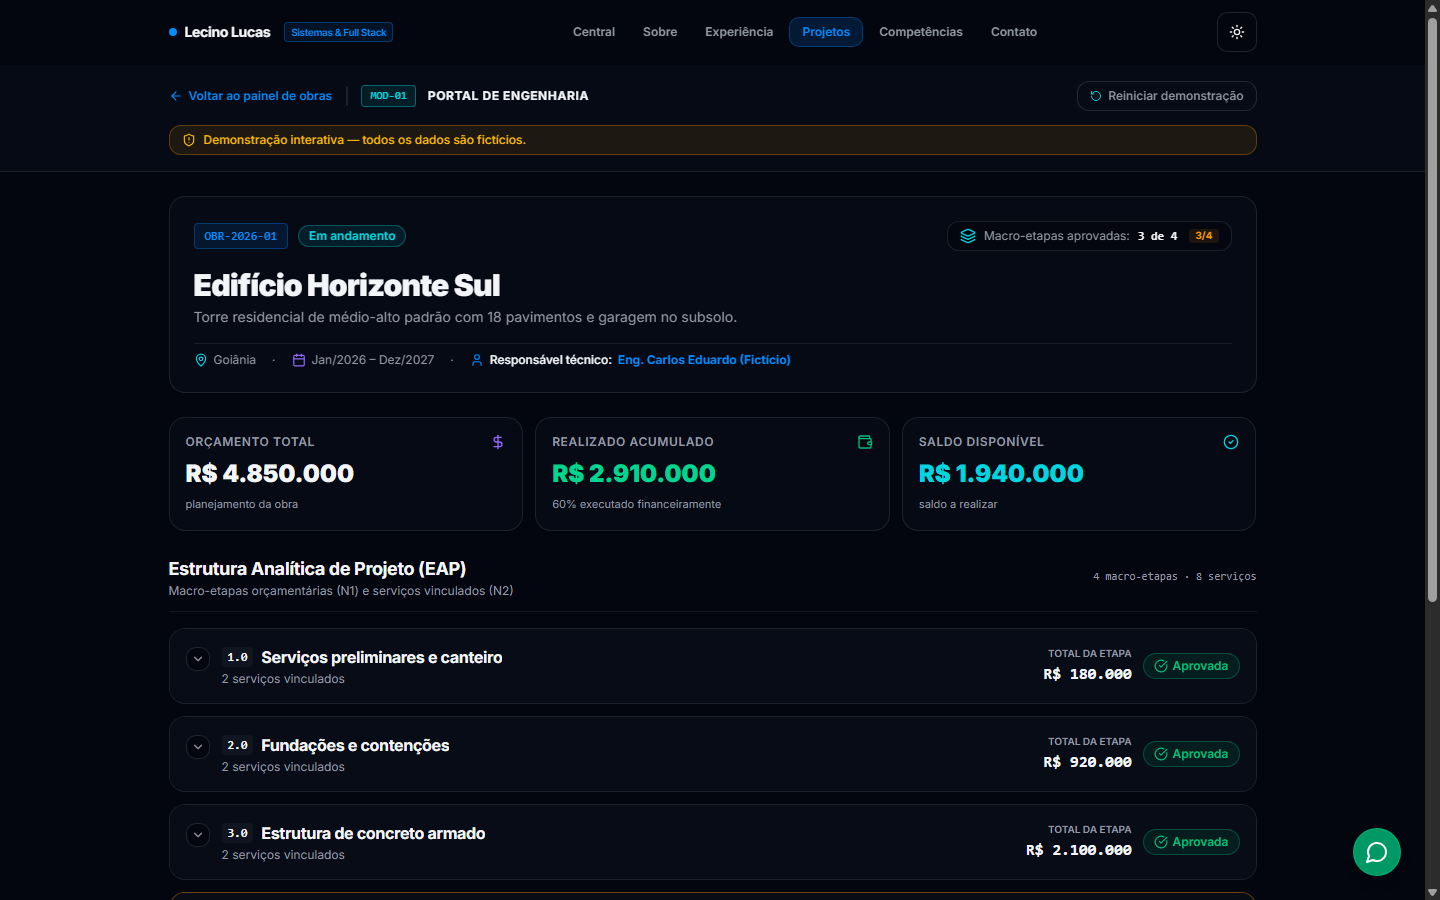
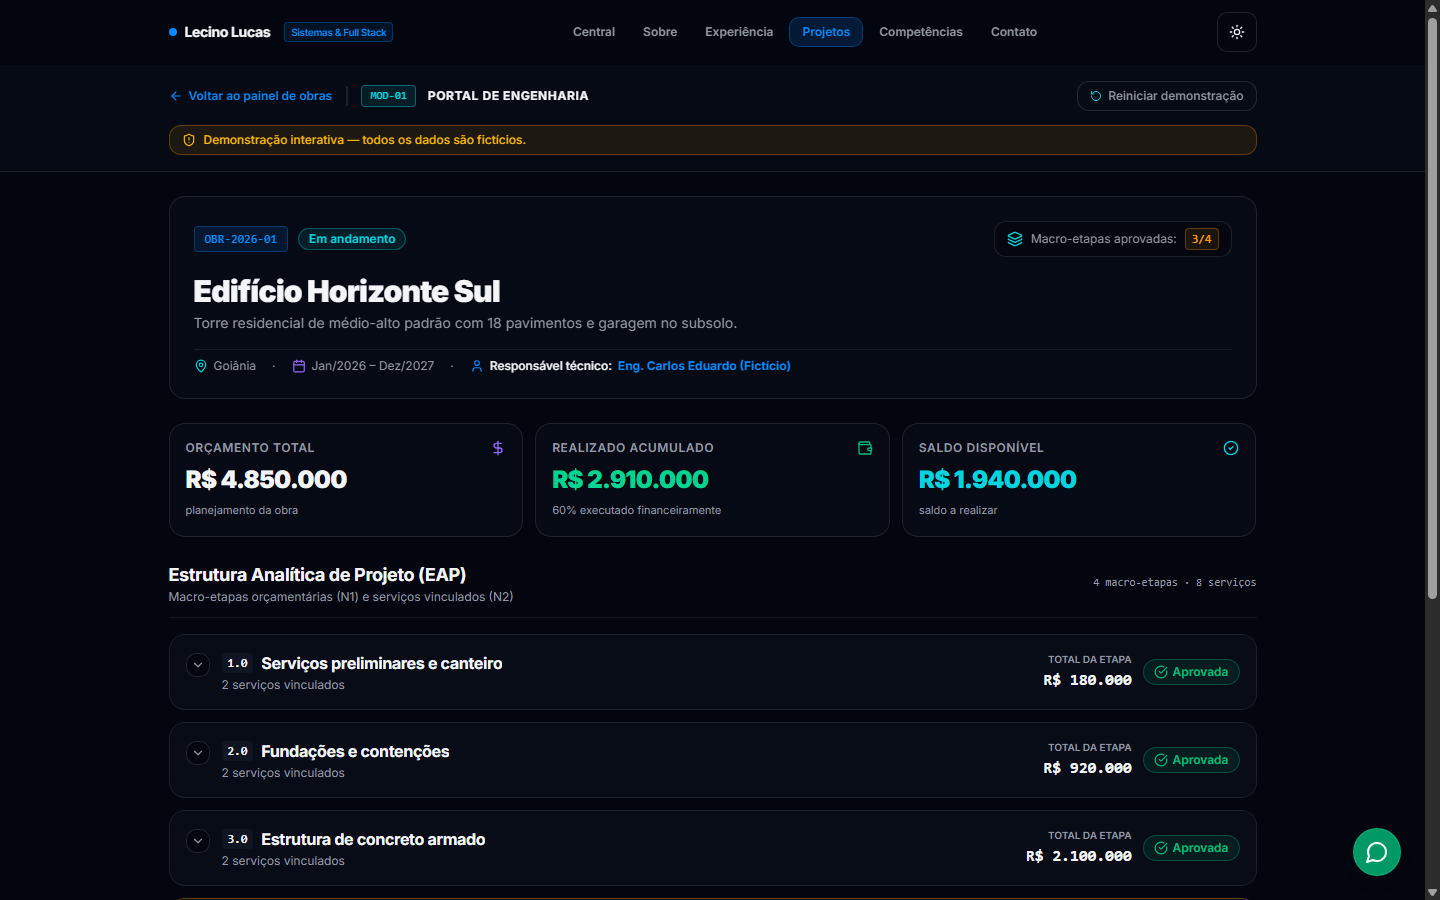
fix(frontend): compactar kpis no mobile e unificar indicador de aprovacoes da demo

diff --git a/frontend/src/pages/portal-engenharia-obra-page.tsx b/frontend/src/pages/portal-engenharia-obra-page.tsx
@@ -111,7 +111,7 @@ export function PortalEngenhariaObraPage() {
       </div>
 
       {/* 2. Conteúdo Principal da Tela 2 (Detalhamento da Obra) */}
-      <Container className="pt-6 space-y-6">
+      <Container className="pt-4 sm:pt-6 space-y-4 sm:space-y-6">
         {/* Banner de Feedback de Sucesso */}
         {feedbackSucesso ? (
           <div className="flex items-center justify-between gap-3 rounded-xl border border-emerald-500/30 bg-emerald-500/10 p-4 text-xs font-semibold text-emerald-500 dark:text-emerald-400 animate-in fade-in-50">
@@ -130,7 +130,7 @@ export function PortalEngenhariaObraPage() {
         ) : null}
 
         {/* Cabeçalho da Obra */}
-        <div className="rounded-xl border border-border/80 bg-card/70 p-5 sm:p-6 shadow-xs backdrop-blur-xs space-y-4">
+        <div className="rounded-xl border border-border/80 bg-card/70 p-4 sm:p-6 shadow-xs backdrop-blur-xs space-y-3 sm:space-y-4">
           <div className="flex flex-col sm:flex-row sm:items-center justify-between gap-3">
             <div className="flex items-center gap-2.5">
               <span className="rounded border border-primary/30 bg-primary/10 px-2.5 py-1 font-mono text-xs font-bold text-primary">
@@ -150,15 +150,12 @@ export function PortalEngenhariaObraPage() {
             <div className="flex items-center gap-2 rounded-lg border border-border/80 bg-background/60 px-3 py-1.5 text-xs">
               <Layers className="size-4 text-tech-cyan" />
               <span className="text-muted-foreground">Macro-etapas aprovadas:</span>
-              <span className="font-mono font-bold text-foreground">
-                {etapasAprovadas} de {totalEtapas}
-              </span>
               <span
                 className={cn(
-                  "ml-1 rounded px-1.5 py-0.2 text-[10px] font-bold",
+                  "font-mono font-bold px-1.5 py-0.5 rounded text-xs",
                   etapasAprovadas === totalEtapas
-                    ? "bg-emerald-500/10 text-emerald-500"
-                    : "bg-amber-500/10 text-amber-500"
+                    ? "bg-emerald-500/10 text-emerald-500 border border-emerald-500/30"
+                    : "bg-amber-500/10 text-amber-500 border border-amber-500/30"
                 )}
               >
                 {etapasAprovadas}/{totalEtapas}
@@ -195,54 +192,54 @@ export function PortalEngenhariaObraPage() {
         </div>
 
         {/* Grade de Indicadores Financeiros da Obra */}
-        <div className="grid grid-cols-1 sm:grid-cols-3 gap-3">
+        <div className="grid grid-cols-1 sm:grid-cols-3 gap-2.5 sm:gap-3">
           {/* Orçamento Total */}
-          <div className="rounded-xl border border-border/80 bg-card/60 p-4 shadow-xs">
+          <div className="rounded-xl border border-border/80 bg-card/60 p-3 sm:p-4 shadow-xs">
             <div className="flex items-center justify-between">
-              <span className="text-xs font-semibold text-muted-foreground uppercase tracking-wider">
+              <span className="text-[11px] sm:text-xs font-semibold text-muted-foreground uppercase tracking-wider">
                 Orçamento Total
               </span>
-              <DollarSign className="size-4 text-tech-violet" />
+              <DollarSign className="size-3.5 sm:size-4 text-tech-violet" />
             </div>
-            <div className="mt-2">
-              <span className="text-xl sm:text-2xl font-black text-foreground block">
+            <div className="mt-1 sm:mt-2 flex items-baseline justify-between sm:block">
+              <span className="text-base sm:text-2xl font-black text-foreground tracking-tight whitespace-nowrap block">
                 {formatarMoeda(obra.orcado)}
               </span>
-              <span className="text-[11px] text-muted-foreground">planejamento da obra</span>
+              <span className="text-[10px] sm:text-[11px] text-muted-foreground">planejamento da obra</span>
             </div>
           </div>
 
           {/* Realizado Acumulado */}
-          <div className="rounded-xl border border-border/80 bg-card/60 p-4 shadow-xs">
+          <div className="rounded-xl border border-border/80 bg-card/60 p-3 sm:p-4 shadow-xs">
             <div className="flex items-center justify-between">
-              <span className="text-xs font-semibold text-muted-foreground uppercase tracking-wider">
+              <span className="text-[11px] sm:text-xs font-semibold text-muted-foreground uppercase tracking-wider">
                 Realizado Acumulado
               </span>
-              <Wallet className="size-4 text-emerald-500" />
+              <Wallet className="size-3.5 sm:size-4 text-emerald-500" />
             </div>
-            <div className="mt-2">
-              <span className="text-xl sm:text-2xl font-black text-emerald-500 dark:text-emerald-400 block">
+            <div className="mt-1 sm:mt-2 flex items-baseline justify-between sm:block">
+              <span className="text-base sm:text-2xl font-black text-emerald-500 dark:text-emerald-400 tracking-tight whitespace-nowrap block">
                 {formatarMoeda(obra.realizado)}
               </span>
-              <span className="text-[11px] text-muted-foreground">
+              <span className="text-[10px] sm:text-[11px] text-muted-foreground">
                 {obra.progresso}% executado financeiramente
               </span>
             </div>
           </div>
 
           {/* Saldo Calculado */}
-          <div className="rounded-xl border border-border/80 bg-card/60 p-4 shadow-xs">
+          <div className="rounded-xl border border-border/80 bg-card/60 p-3 sm:p-4 shadow-xs">
             <div className="flex items-center justify-between">
-              <span className="text-xs font-semibold text-muted-foreground uppercase tracking-wider">
+              <span className="text-[11px] sm:text-xs font-semibold text-muted-foreground uppercase tracking-wider">
                 Saldo Disponível
               </span>
-              <CheckCircle2 className="size-4 text-tech-cyan" />
+              <CheckCircle2 className="size-3.5 sm:size-4 text-tech-cyan" />
             </div>
-            <div className="mt-2">
-              <span className="text-xl sm:text-2xl font-black text-tech-cyan block">
+            <div className="mt-1 sm:mt-2 flex items-baseline justify-between sm:block">
+              <span className="text-base sm:text-2xl font-black text-tech-cyan tracking-tight whitespace-nowrap block">
                 {formatarMoeda(saldoCalculado)}
               </span>
-              <span className="text-[11px] text-muted-foreground">saldo a realizar</span>
+              <span className="text-[10px] sm:text-[11px] text-muted-foreground">saldo a realizar</span>
             </div>
           </div>
         </div>

diff --git a/frontend/src/components/portfolio/portal-engenharia/portal-engenharia-kpis.tsx b/frontend/src/components/portfolio/portal-engenharia/portal-engenharia-kpis.tsx
@@ -22,76 +22,78 @@ export function PortalEngenhariaKpis({ kpis }: PortalEngenhariaKpisProps) {
     kpis.totalOrcado > 0 ? Math.round((kpis.totalRealizado / kpis.totalOrcado) * 100) : 0;
 
   return (
-    <div className="grid grid-cols-1 sm:grid-cols-2 lg:grid-cols-4 gap-3 sm:gap-4">
+    <div className="grid grid-cols-2 lg:grid-cols-4 gap-2 sm:gap-4">
       {/* 1. Total de Obras */}
-      <div className="rounded-xl border border-border/80 bg-card/60 p-4 shadow-xs backdrop-blur-xs">
+      <div className="rounded-xl border border-border/80 bg-card/60 p-2.5 sm:p-4 shadow-xs backdrop-blur-xs">
         <div className="flex items-center justify-between">
-          <span className="text-xs font-semibold text-muted-foreground uppercase tracking-wider">
+          <span className="text-[10px] sm:text-xs font-semibold text-muted-foreground uppercase tracking-wider">
             Total de Obras
           </span>
-          <div className="flex size-7 items-center justify-center rounded-lg bg-primary/10 text-primary">
-            <Building2 className="size-4" />
+          <div className="flex size-6 sm:size-7 items-center justify-center rounded-lg bg-primary/10 text-primary">
+            <Building2 className="size-3.5 sm:size-4" />
           </div>
         </div>
-        <div className="mt-2 flex items-baseline gap-2">
-          <span className="text-2xl sm:text-3xl font-black text-foreground">
+        <div className="mt-1 sm:mt-2 flex items-baseline gap-1.5 sm:gap-2">
+          <span className="text-xl sm:text-3xl font-black text-foreground">
             {kpis.totalObras}
           </span>
-          <span className="text-[11px] text-muted-foreground">cadastradas</span>
+          <span className="text-[10px] sm:text-[11px] text-muted-foreground">cadastradas</span>
         </div>
       </div>
 
       {/* 2. Obras em Andamento */}
-      <div className="rounded-xl border border-border/80 bg-card/60 p-4 shadow-xs backdrop-blur-xs">
+      <div className="rounded-xl border border-border/80 bg-card/60 p-2.5 sm:p-4 shadow-xs backdrop-blur-xs">
         <div className="flex items-center justify-between">
-          <span className="text-xs font-semibold text-muted-foreground uppercase tracking-wider">
+          <span className="text-[10px] sm:text-xs font-semibold text-muted-foreground uppercase tracking-wider">
             Em Andamento
           </span>
-          <div className="flex size-7 items-center justify-center rounded-lg bg-tech-cyan/10 text-tech-cyan">
-            <Activity className="size-4" />
+          <div className="flex size-6 sm:size-7 items-center justify-center rounded-lg bg-tech-cyan/10 text-tech-cyan">
+            <Activity className="size-3.5 sm:size-4" />
           </div>
         </div>
-        <div className="mt-2 flex items-baseline gap-2">
-          <span className="text-2xl sm:text-3xl font-black text-tech-cyan">
+        <div className="mt-1 sm:mt-2 flex items-baseline gap-1.5 sm:gap-2">
+          <span className="text-xl sm:text-3xl font-black text-tech-cyan">
             {kpis.obrasEmAndamento}
           </span>
-          <span className="text-[11px] text-muted-foreground">ativas no momento</span>
+          <span className="text-[10px] sm:text-[11px] text-muted-foreground">ativas</span>
         </div>
       </div>
 
       {/* 3. Total Orçado */}
-      <div className="rounded-xl border border-border/80 bg-card/60 p-4 shadow-xs backdrop-blur-xs">
+      <div className="rounded-xl border border-border/80 bg-card/60 p-2.5 sm:p-4 shadow-xs backdrop-blur-xs">
         <div className="flex items-center justify-between">
-          <span className="text-xs font-semibold text-muted-foreground uppercase tracking-wider">
+          <span className="text-[10px] sm:text-xs font-semibold text-muted-foreground uppercase tracking-wider">
             Total Orçado
           </span>
-          <div className="flex size-7 items-center justify-center rounded-lg bg-tech-violet/10 text-tech-violet">
-            <DollarSign className="size-4" />
+          <div className="flex size-6 sm:size-7 items-center justify-center rounded-lg bg-tech-violet/10 text-tech-violet">
+            <DollarSign className="size-3.5 sm:size-4" />
           </div>
         </div>
-        <div className="mt-2">
-          <span className="text-xl sm:text-2xl font-black text-foreground truncate block">
+        <div className="mt-1 sm:mt-2">
+          <span className="text-[13px] xs:text-sm sm:text-2xl font-black text-foreground tracking-tight whitespace-nowrap block">
             {formatarMoedaCompacta(kpis.totalOrcado)}
           </span>
-          <span className="text-[11px] text-muted-foreground">planejamento consolidado</span>
+          <span className="text-[10px] sm:text-[11px] text-muted-foreground block truncate">
+            planejamento
+          </span>
         </div>
       </div>
 
       {/* 4. Total Realizado */}
-      <div className="rounded-xl border border-border/80 bg-card/60 p-4 shadow-xs backdrop-blur-xs">
+      <div className="rounded-xl border border-border/80 bg-card/60 p-2.5 sm:p-4 shadow-xs backdrop-blur-xs">
         <div className="flex items-center justify-between">
-          <span className="text-xs font-semibold text-muted-foreground uppercase tracking-wider">
+          <span className="text-[10px] sm:text-xs font-semibold text-muted-foreground uppercase tracking-wider">
             Total Realizado
           </span>
-          <div className="flex size-7 items-center justify-center rounded-lg bg-emerald-500/10 text-emerald-500">
-            <Wallet className="size-4" />
+          <div className="flex size-6 sm:size-7 items-center justify-center rounded-lg bg-emerald-500/10 text-emerald-500">
+            <Wallet className="size-3.5 sm:size-4" />
           </div>
         </div>
-        <div className="mt-2">
-          <span className="text-xl sm:text-2xl font-black text-emerald-500 dark:text-emerald-400 truncate block">
+        <div className="mt-1 sm:mt-2">
+          <span className="text-[13px] xs:text-sm sm:text-2xl font-black text-emerald-500 dark:text-emerald-400 tracking-tight whitespace-nowrap block">
             {formatarMoedaCompacta(kpis.totalRealizado)}
           </span>
-          <span className="text-[11px] text-muted-foreground">
+          <span className="text-[10px] sm:text-[11px] text-muted-foreground block truncate">
             {percentualGlobal}% executado
           </span>
         </div>

diff --git a/frontend/src/pages/portal-engenharia-demo.test.tsx b/frontend/src/pages/portal-engenharia-demo.test.tsx
@@ -118,13 +118,14 @@ describe("Demonstração Mockada do Portal de Engenharia", () => {
     ).toBeInTheDocument();
   });
 
-  it("renderiza a tela de detalhamento com indicadores, responsável fictício e 3 de 4 aprovadas", () => {
+  it("renderiza a tela de detalhamento com indicadores, responsável fictício e indicador único 3/4", () => {
     renderDemoApp("/projetos/portal-engenharia/demo/obra/edificio-horizonte-sul");
 
     expect(screen.getByText(/OBR-2026-01/i)).toBeInTheDocument();
     expect(screen.getByText(/Eng\. Carlos Eduardo \(Fictício\)/i)).toBeInTheDocument();
-    expect(screen.getByText(/3 de 4/i)).toBeInTheDocument();
+    expect(screen.getByText("Macro-etapas aprovadas:")).toBeInTheDocument();
     expect(screen.getByText("3/4")).toBeInTheDocument();
+    expect(screen.queryByText(/3 de 4/i)).not.toBeInTheDocument();
     // Saldo calculado: R$ 1.940.000
     expect(screen.getByText(/1\.940\.000/i)).toBeInTheDocument();
   });
@@ -150,10 +151,13 @@ describe("Demonstração Mockada do Portal de Engenharia", () => {
     expect(screen.queryByText(/Instalações provisórias, tapumes e ligações/i)).not.toBeInTheDocument();
   });
 
-  it("permite cancelar a aprovação de macro-etapa sem alterar o estado (mantém 3/4)", () => {
+  it("permite cancelar a aprovação de macro-etapa sem alterar o estado (mantém indicador único 3/4)", () => {
     renderDemoApp("/projetos/portal-engenharia/demo/obra/edificio-horizonte-sul");
 
+    // Valida o indicador único sem duplicação
+    expect(screen.getByText("Macro-etapas aprovadas:")).toBeInTheDocument();
     expect(screen.getByText("3/4")).toBeInTheDocument();
+    expect(screen.queryByText(/3 de 4/i)).not.toBeInTheDocument();
 
     // Clica no botão 'Aprovar etapa' da etapa pendente (Instalações)
     const botaoAprovar = screen.getByRole("button", { name: /Aprovar etapa/i });
@@ -169,32 +173,38 @@ describe("Demonstração Mockada do Portal de Engenharia", () => {
     const botaoCancelar = screen.getByRole("button", { name: /Cancelar/i });
     fireEvent.click(botaoCancelar);
 
-    // Modal fecha e continua 3/4
+    // Modal fecha e continua com indicador único 3/4
     expect(screen.queryByRole("dialog")).not.toBeInTheDocument();
     expect(screen.getByText("3/4")).toBeInTheDocument();
+    expect(screen.queryByText(/3 de 4/i)).not.toBeInTheDocument();
   });
 
-  it("confirma aprovação de macro-etapa, atualiza para 4/4 e permite reiniciar a demo", () => {
+  it("confirma aprovação de macro-etapa, atualiza indicador único para 4/4 e permite reiniciar a demo", () => {
     renderDemoApp("/projetos/portal-engenharia/demo/obra/edificio-horizonte-sul");
 
+    // Indicador único inicial
+    expect(screen.getByText("Macro-etapas aprovadas:")).toBeInTheDocument();
     expect(screen.getByText("3/4")).toBeInTheDocument();
+    expect(screen.queryByText(/3 de 4/i)).not.toBeInTheDocument();
 
     // Abre modal e confirma
     fireEvent.click(screen.getByRole("button", { name: /Aprovar etapa/i }));
     fireEvent.click(screen.getByRole("button", { name: /Confirmar Aprovação/i }));
 
-    // Atualizado para 4 de 4 / 4/4
-    expect(screen.getByText(/4 de 4/i)).toBeInTheDocument();
+    // Atualizado exclusivamente para 4/4 (sem duplicar texto)
     expect(screen.getByText("4/4")).toBeInTheDocument();
+    expect(screen.queryByText("3/4")).not.toBeInTheDocument();
+    expect(screen.queryByText(/4 de 4/i)).not.toBeInTheDocument();
     expect(screen.getByText(/Macro-etapa aprovada com sucesso/i)).toBeInTheDocument();
 
     // Clica em reiniciar demonstração
     const botaoReiniciar = screen.getByRole("button", { name: /Reiniciar demonstração/i });
     fireEvent.click(botaoReiniciar);
 
-    // Restaura para 3 de 4 / 3/4
-    expect(screen.getByText(/3 de 4/i)).toBeInTheDocument();
+    // Restaura para indicador único 3/4
     expect(screen.getByText("3/4")).toBeInTheDocument();
+    expect(screen.queryByText("4/4")).not.toBeInTheDocument();
+    expect(screen.queryByText(/3 de 4/i)).not.toBeInTheDocument();
   });
 
   it("garante ausência de requisições de rede externa e de persistência no storage", () => {

diff --git a/frontend/src/pages/portal-engenharia-demo-page.tsx b/frontend/src/pages/portal-engenharia-demo-page.tsx
@@ -73,7 +73,7 @@ export function PortalEngenhariaDemoPage() {
       </div>
 
       {/* 2. Conteúdo Principal da Tela 1 (Painel Executivo de Obras) */}
-      <Container className="pt-6 space-y-6">
+      <Container className="pt-4 sm:pt-6 space-y-4 sm:space-y-6">
         {/* Título da Seção */}
         <div>
           <h1 className="text-2xl sm:text-3xl font-extrabold tracking-tight text-foreground">
